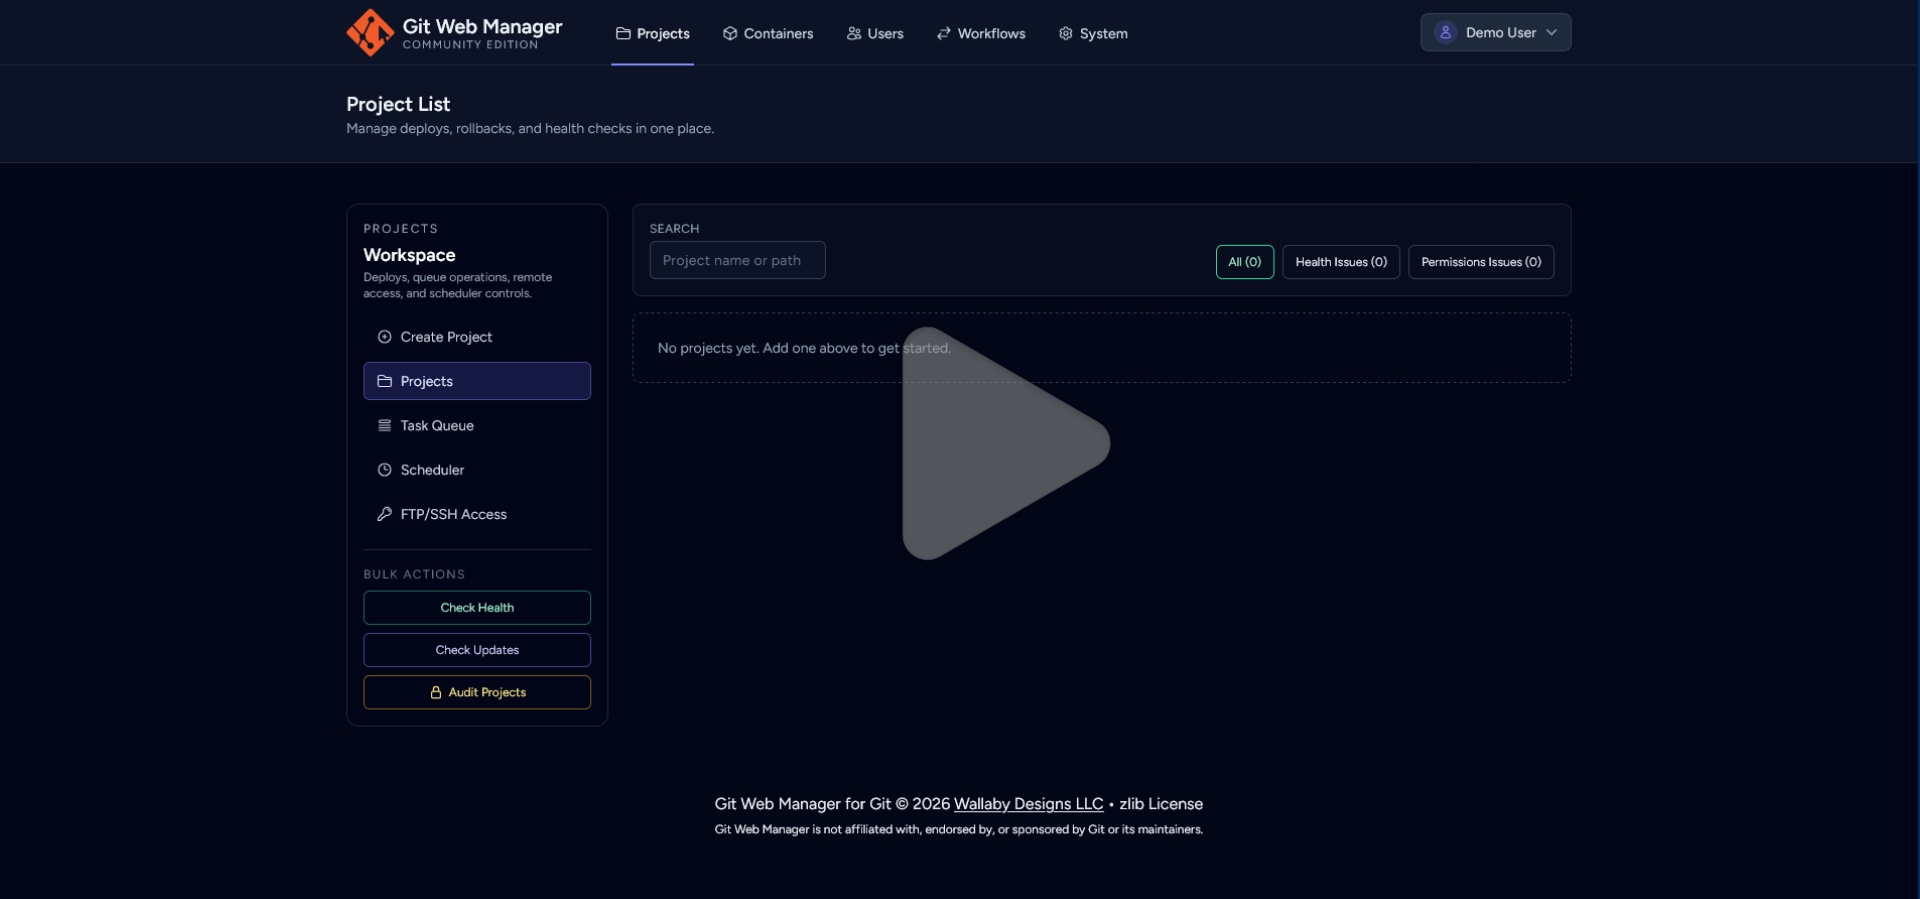
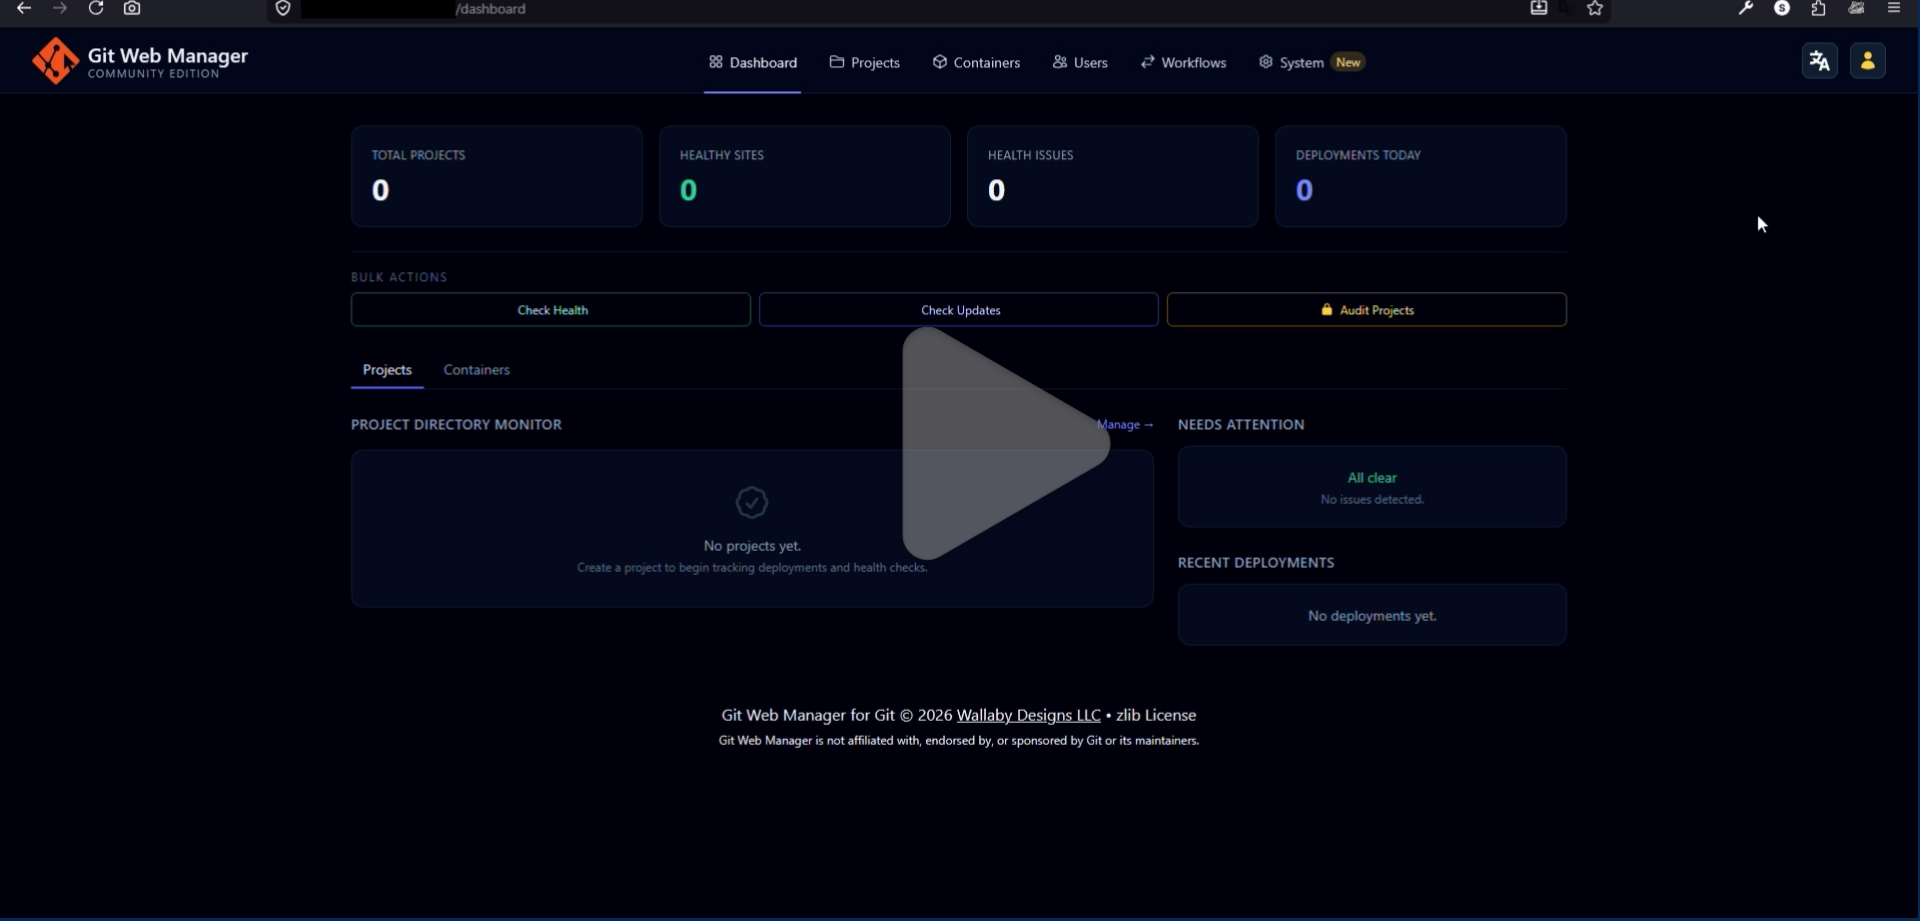
fix: readme edits

diff --git a/README.md b/README.md
@@ -10,11 +10,7 @@ Git Web Manager is not affiliated with, endorsed by, or sponsored by Git or GitH
 [![please donate](https://img.shields.io/liberapay/receives/wallaby.svg?logo=liberapay)](https://liberapay.com/wallaby/donate)
 
 ## Documentation Site (GitHub Pages)
-The docs site is maintained in a separate repository: `gitmanager-docs`.
-Local workspace path:
-- `E:\vsprojects\gitmanager-docs`
-
-You can read them directly here: [documentation](https://docs.gitwebmanager.com).
+To review the documentation for this project, click here: [documentation](https://docs.gitwebmanager.com).
 
 [![documentation](/assets/docs.png)](https://docs.gitwebmanager.com)
 